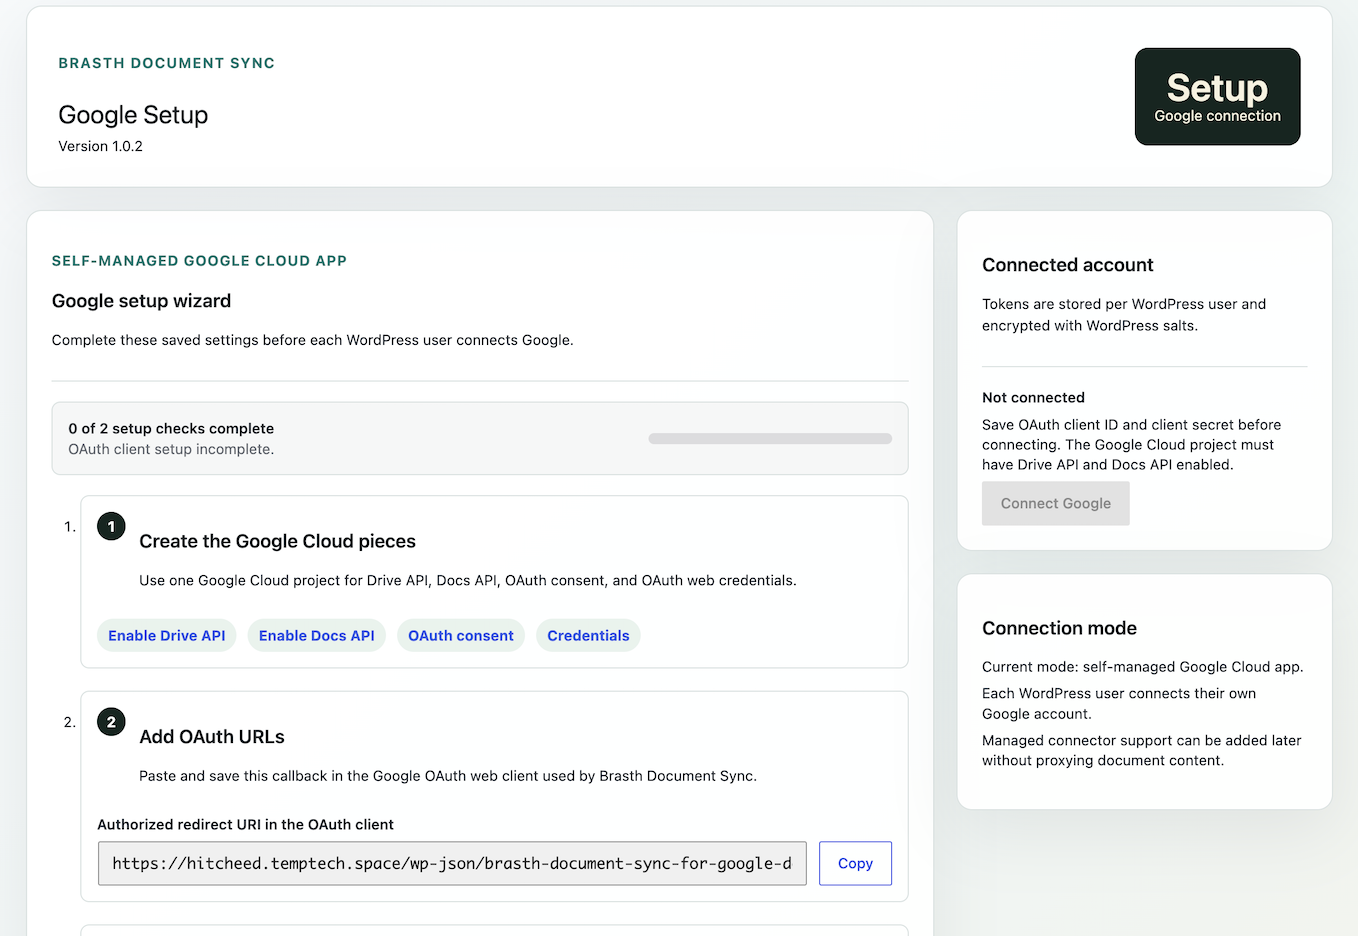
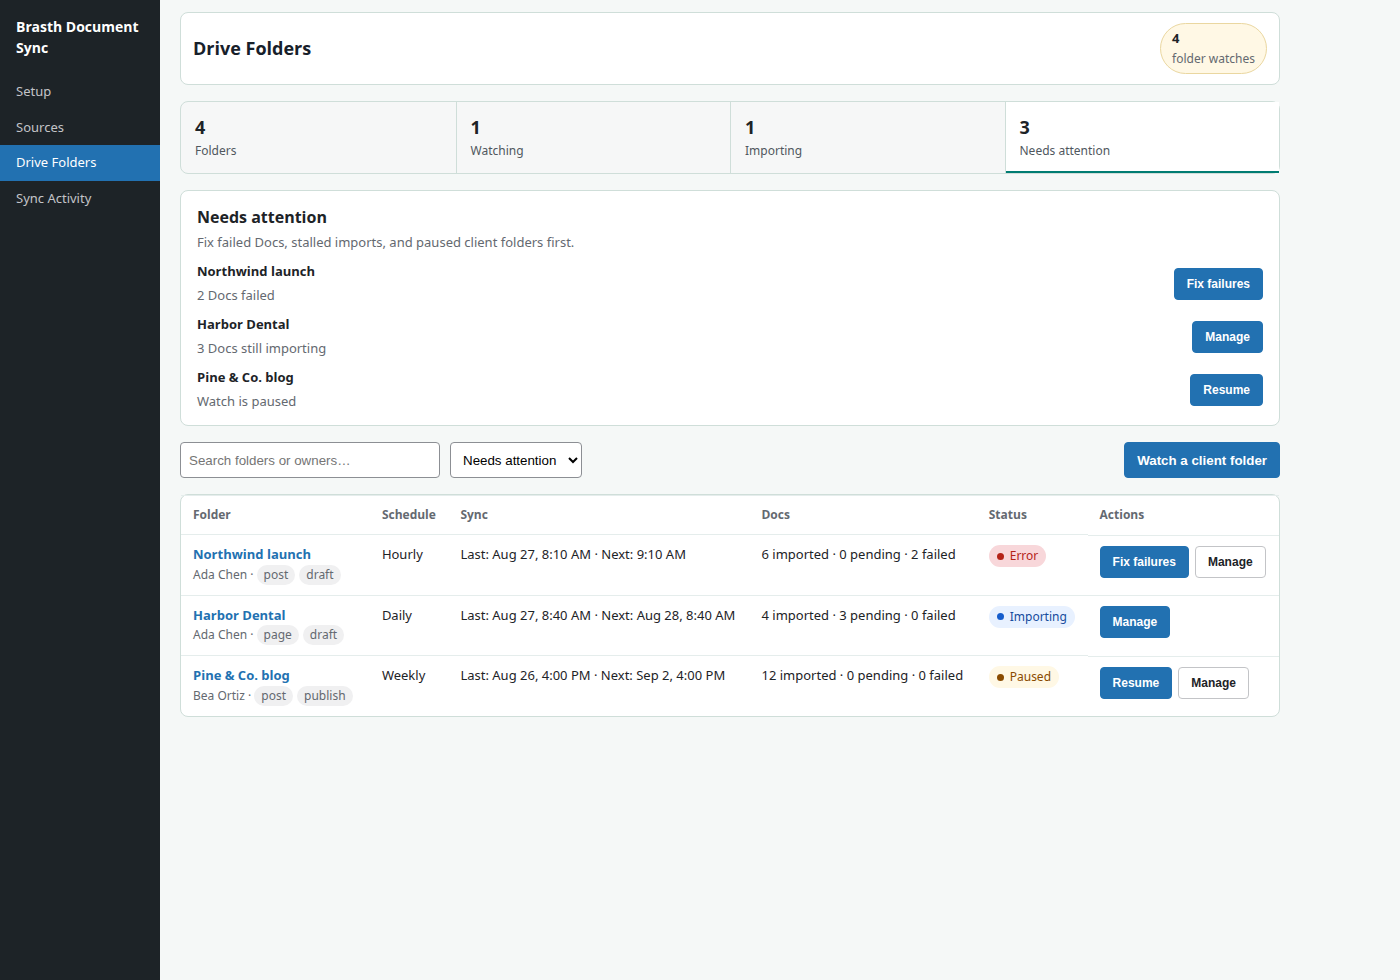
feat: refresh listing tags, screenshot 1, and Elementor QA notes
Keep the published 1.1.5 stable tag. Add 1.1.6 changelog, folder-watch
short description, and a Drive Folders ops screenshot for WP.org.

diff --git a/docs/design-guidelines.md b/docs/design-guidelines.md
@@ -1,6 +1,6 @@
 # Brasth Admin Design Guidelines
 
-Last updated: 2026-07-11
+Last updated: 2026-08-27
 
 ## Purpose
 
@@ -80,6 +80,18 @@ Use this guide for Brasth Document Sync admin UI work. The product direction is 
 - Group credential import, redirect URI copy, Google Cloud links, connection test, and sync defaults by job.
 - Dirty/saved state belongs near the panel it affects.
 - Long setup instructions belong in disclosures.
+
+## Drive Folders
+
+- Drive Folders is the agency ops surface. It answers “which client folders need work,” not “here is a CRUD table.”
+- Health tiles are filters: Folders, Watching, Importing, Needs attention. Selected tiles use `aria-pressed`.
+- Needs attention means error, paused, failed Docs, or a non-empty last error. Importing is attention because it is unfinished work.
+- Show an attention queue above the table when any watch needs work. Hide it only when the Watching filter is on.
+- Status pills must match the watch state: Watching, Importing, Paused, Error. Do not map those to Synced or Linked.
+- Command row: search, status filter, then **Watch a client folder** on the right.
+- Row primary action is Resume, Fix failures, Manage, or Scan now. Overflow holds the rest.
+- Folder detail uses a single page `<h1>` in the shell. The folder name in the header is an `<h2>`.
+- After the first imported Doc, a one-time dismissible WordPress.org review prompt may appear. Never nag on activate.
 
 ## Sources And Logs
 

diff --git a/docs/qa/elementor-3-4-compatibility-checklist.md b/docs/qa/elementor-3-4-compatibility-checklist.md
@@ -1,0 +1,30 @@
+# Elementor 3.x / 4.x compatibility checklist
+
+Use this on staging before a public release. Do not treat JSON golden fixtures as a substitute.
+
+## Matrix
+
+Run the same Doc (heading, intro, image, list, table) on:
+
+1. Latest Elementor 3.x, Atomic Editor off, containers on
+2. Latest Elementor 4.x, Atomic Editor off
+3. Latest Elementor 4.x, Atomic Editor on (new-site default)
+
+For each cell:
+
+- [ ] Feature Block preset opens in the Elementor editor without a schema error
+- [ ] Hero Page preset opens and shows the first heading / intro / image as the hero group
+- [ ] Legacy converter (no preset) still opens
+- [ ] Frontend matches the editor after `PostUpdater` cache clear
+- [ ] Re-sync after a preset change rewrites `_elementor_data` and `_elementor_version`
+- [ ] No Pro widgets appear in the generated JSON
+- [ ] Images from Media Library keep captions
+
+## Pass / fail
+
+- **Pass:** v3 widgets (`heading`, `text-editor`, `image`, `icon-list`, `divider`, `spacer`, `html`) remain editable on Atomic-on sites.
+- **Fail:** editor refuses the JSON, or content is uneditable. File the fixture plus Elementor version. Do not rewrite presets to Atomic elements unless three agency sites hit this.
+
+## Out of scope
+
+Atomic `e-heading` output, Pro widgets, Bricks/Divi, visual polish of hard-coded hero colors.

diff --git a/changelog/20260827-automation-ops-listing.md b/changelog/20260827-automation-ops-listing.md
@@ -1,0 +1,4 @@
+Significance: minor
+Type: changed
+
+Drive Folders is now an ops queue: honest status pills, clickable health filters, and failed or paused client folders first. Listing copy and screenshot 1 lead with folder automation.
